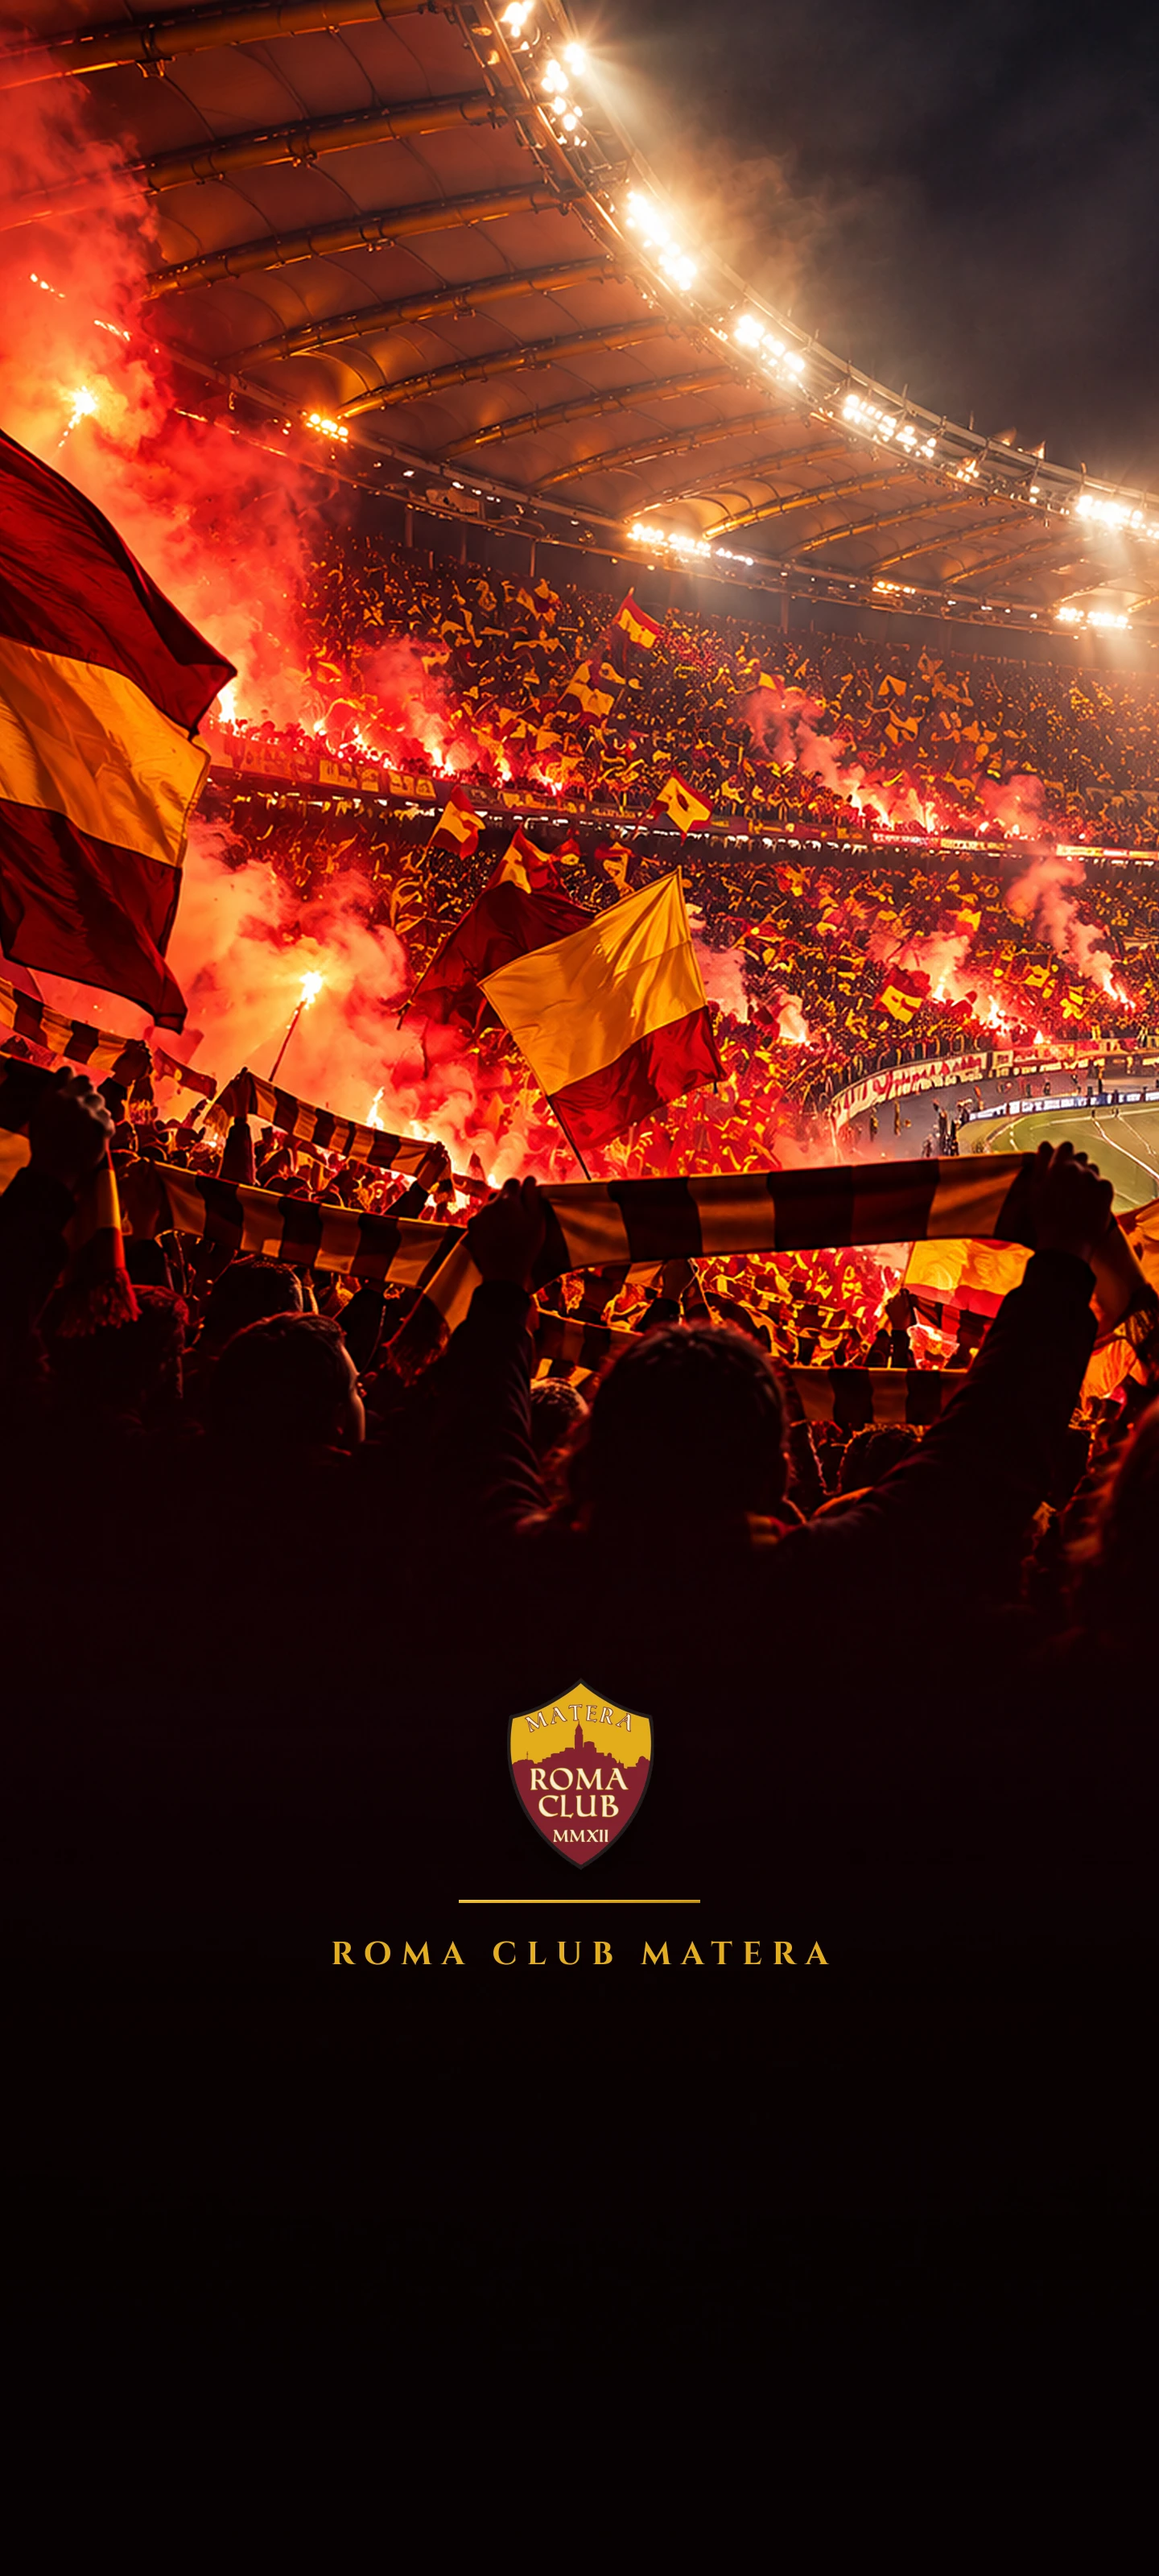
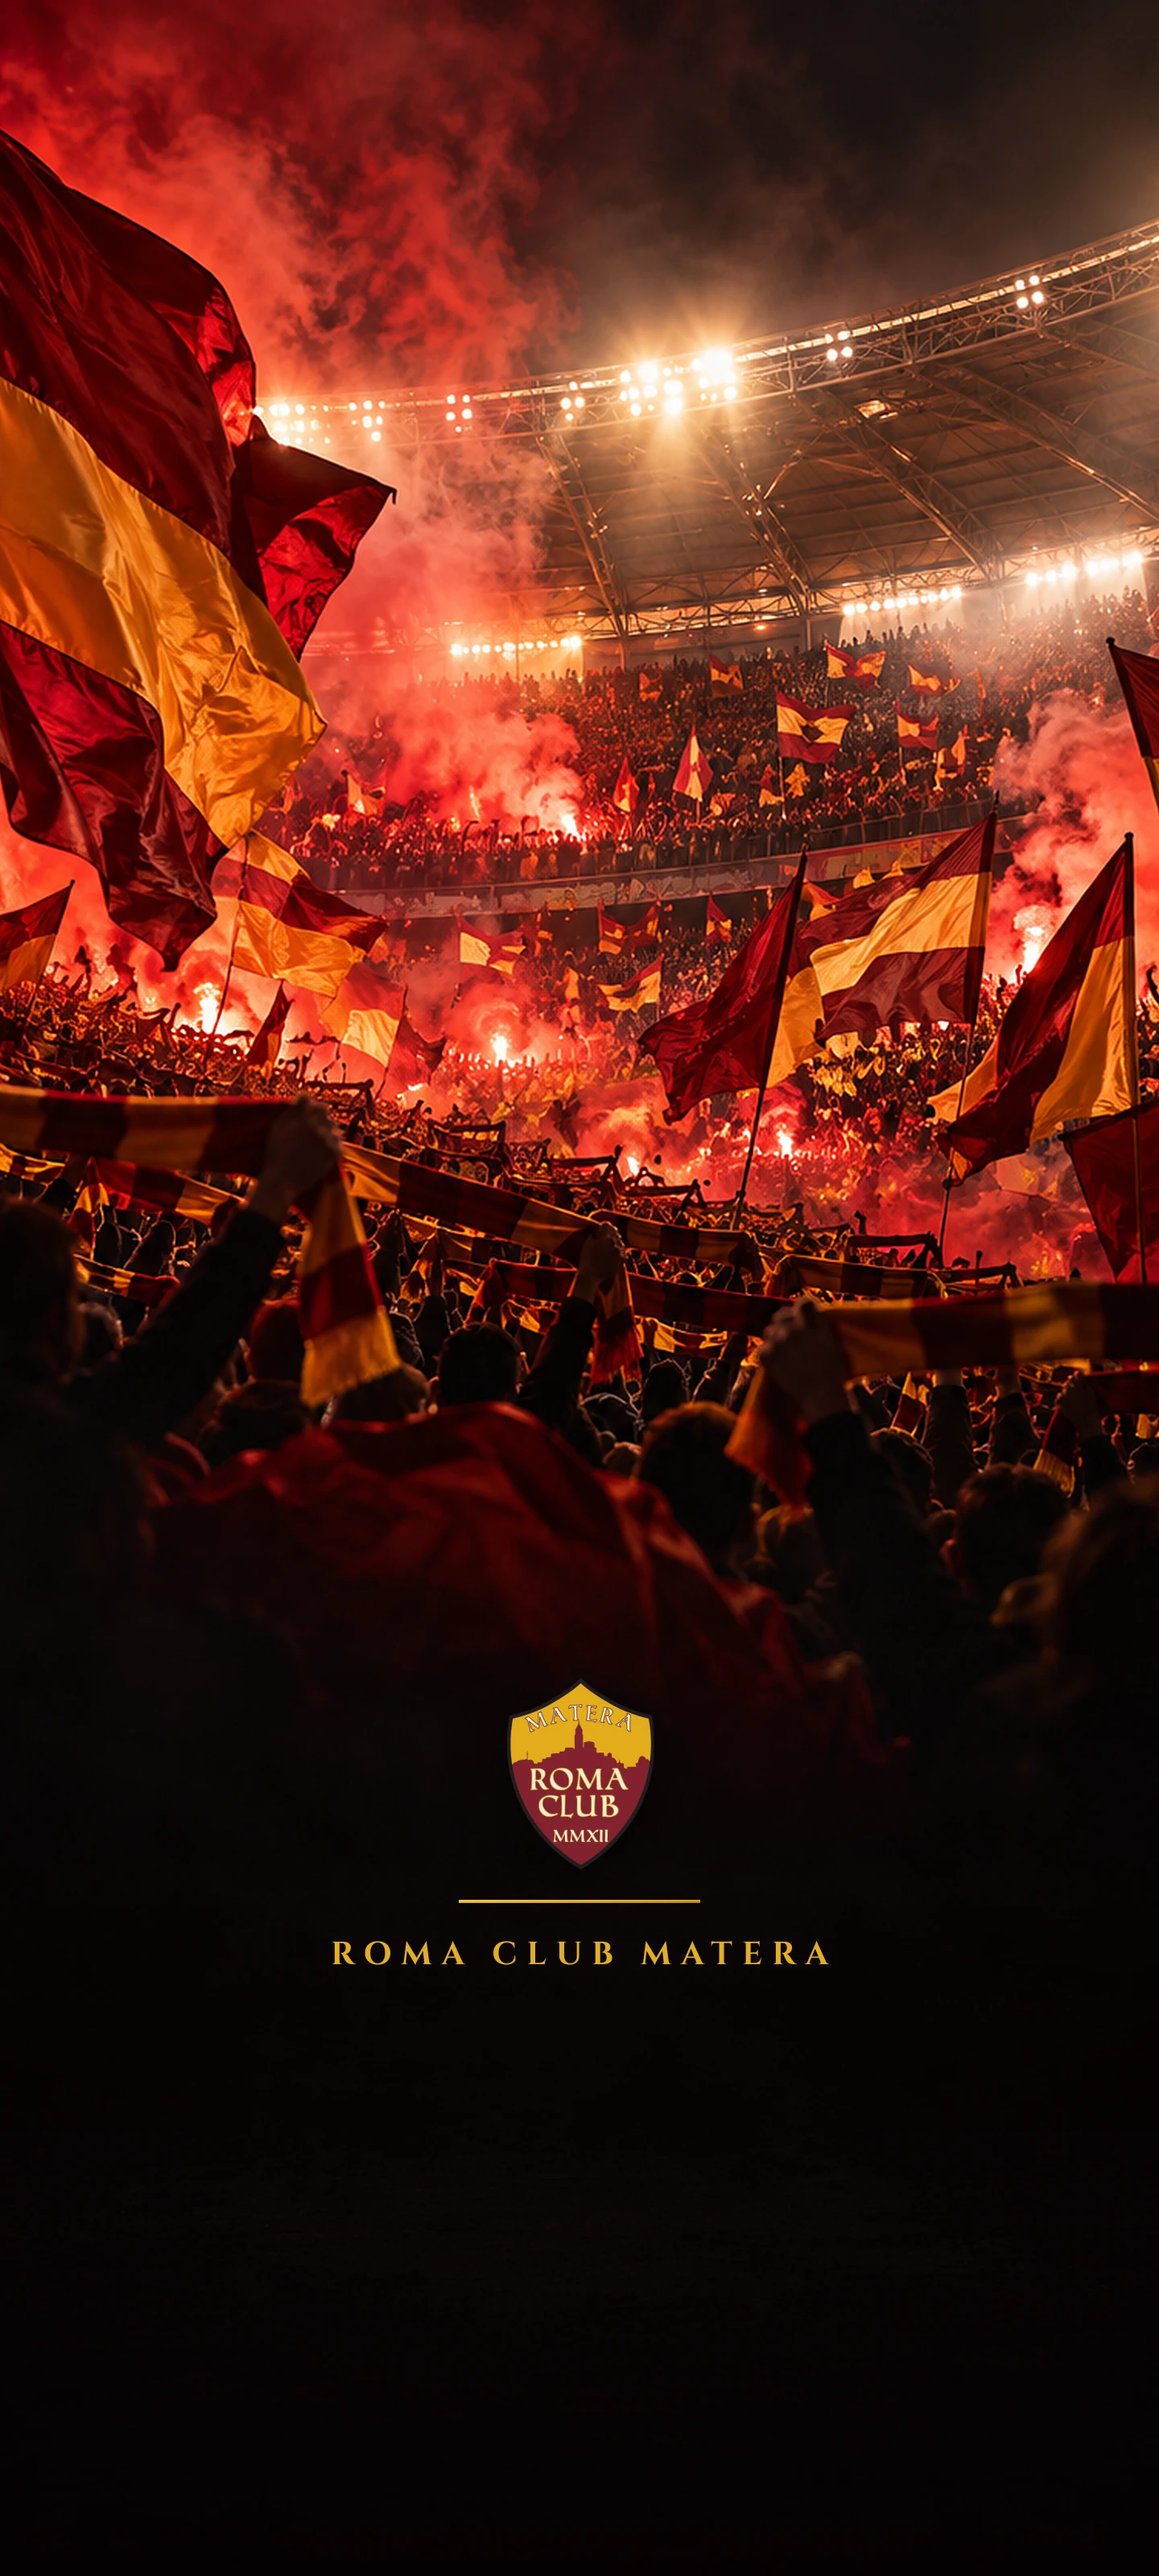
Tema RCM 1.5.3: sfondi dalle illustrazioni nuove, icone originali nella Home
- 13 illustrazioni del 09/10/2026 (cartella fatte/ dell'archivio): Capitano,
  Colosseo, Olimpico, Sassi di notte, Da Matera a Roma, la Curva, Dybala,
  Malen (due), Svilar, Mancini (due, una col derby), il tuffo. Prendono il
  posto delle versioni disegnate, che restano se l'archivio non c'e'.
- La Home RCM mostra per tutte le app l'icona originale nel bordino del
  Club; le icone disegnate restano per Theme Park e gli altri launcher.

diff --git a/app/android/app/src/main/kotlin/it/romaclubmatera/tema/HomeActivity.kt b/app/android/app/src/main/kotlin/it/romaclubmatera/tema/HomeActivity.kt
@@ -30,15 +30,14 @@ import io.flutter.plugin.common.MethodChannel
 import io.flutter.plugin.common.StandardMessageCodec
 import io.flutter.plugin.platform.PlatformView
 import io.flutter.plugin.platform.PlatformViewFactory
-import org.xmlpull.v1.XmlPullParser
 import java.io.ByteArrayOutputStream
 import kotlin.concurrent.thread
 
 /**
  * La Home del Club: un launcher vero (categoria HOME), disegnato in Flutter
  * (entrypoint "home" in lib/home.dart) sopra lo sfondo del telefono.
- * Le icone sono quelle del tema: dal pacchetto se l'app e' in appfilter.xml,
- * altrimenti l'icona originale ritagliata dentro la cornice del Club.
+ * Le icone sono quelle originali delle app, ritagliate dentro la cornice
+ * del Club.
  * I widget delle altre app vivono qui (AppWidgetHost) e Flutter li mostra
  * come viste native "rcm/widget".
  */
@@ -47,8 +46,6 @@ class HomeActivity : FlutterActivity() {
     private lateinit var canale: MethodChannel
     private val la by lazy { getSystemService(Context.LAUNCHER_APPS_SERVICE) as LauncherApps }
 
-    // componente "pacchetto/attivita'" -> nome del drawable del tema
-    private val filtro: Map<String, String> by lazy { leggiFiltro() }
 
     private val awm by lazy { AppWidgetManager.getInstance(this) }
     private val host by lazy { AppWidgetHost(applicationContext, HOST_ID) }
@@ -396,47 +393,17 @@ class HomeActivity : FlutterActivity() {
         }
     }
 
-    private fun leggiFiltro(): Map<String, String> {
-        val m = HashMap<String, String>()
-        val id = resources.getIdentifier("appfilter", "xml", packageName)
-        if (id == 0) return m
-        val x = resources.getXml(id)
-        while (x.next() != XmlPullParser.END_DOCUMENT) {
-            if (x.eventType != XmlPullParser.START_TAG) continue
-            when (x.name) {
-                "item" -> {
-                    val comp = x.getAttributeValue(null, "component") ?: continue
-                    val d = x.getAttributeValue(null, "drawable") ?: continue
-                    val k = comp.removePrefix("ComponentInfo{").removeSuffix("}")
-                    // "pacchetto/.Attivita" -> nome completo
-                    val (p, a) = k.split("/", limit = 2).let { it[0] to it.getOrElse(1) { "" } }
-                    m["$p/${if (a.startsWith(".")) p + a else a}"] = d
-                    m.putIfAbsent("$p/*", d) // stessa app con un'attivita' diversa
-                }
-            }
-        }
-        return m
-    }
-
-    private fun drawable(nome: String): Drawable? {
-        val id = resources.getIdentifier(nome, "drawable", packageName)
-        return if (id == 0) null else resources.getDrawable(id, theme)
-    }
-
     private fun icona(c: ComponentName): ByteArray {
         val lato = 192
         val bmp = Bitmap.createBitmap(lato, lato, Bitmap.Config.ARGB_8888)
         val tela = Canvas(bmp)
-        val mio = filtro["${c.packageName}/${c.className}"] ?: filtro["${c.packageName}/*"]
-        val tema = mio?.let { drawable(it) }
-        if (tema != null) {
-            tema.setBounds(0, 0, lato, lato); tema.draw(tela)
-        } else {
-            val orig = la.getActivityList(c.packageName, Process.myUserHandle())
-                .firstOrNull { it.componentName == c }?.getIcon(0)
-                ?: packageManager.getApplicationIcon(c.packageName)
-            cornice(tela, lato.toFloat(), orig)
-        }
+        // dalla 1.5.3 tutte le app con la loro icona nel bordino del Club
+        // (Michele, 10/10/2026: "le icone originali con il bordino sono piu' belle");
+        // le icone disegnate restano nel pacchetto per Theme Park e gli altri launcher
+        val orig = la.getActivityList(c.packageName, Process.myUserHandle())
+            .firstOrNull { it.componentName == c }?.getIcon(0)
+            ?: packageManager.getApplicationIcon(c.packageName)
+        cornice(tela, lato.toFloat(), orig)
         return ByteArrayOutputStream().also { bmp.compress(Bitmap.CompressFormat.PNG, 100, it) }.toByteArray()
     }
 

diff --git a/app/lib/sfondi.dart b/app/lib/sfondi.dart
@@ -14,6 +14,9 @@ String nomeSfondo(String asset) {
     'capitano': 'Il Capitano', 'totti-10': 'Totti 10', 'de-rossi-16': 'De Rossi 16', 'totti-e-de-rossi': 'Totti e De Rossi', 'mmxii': 'MMXII',
     'da-matera-a-roma': 'Da Matera a Roma', 'forza-grande-roma': 'Forza grande Roma',
     'olimpico-notte': "L'Olimpico", 'la-curva-fumogeni': 'La Curva',
+    'dybala-21': 'Dybala 21', 'malen-14': 'Malen 14', 'malen-14-curva': 'Malen 14 in curva', 'svilar-99': 'Svilar 99',
+    'mancini-23': 'Mancini 23', 'mancini-23-derby': 'Mancini 23 derby', 'portiere-tuffo': 'Il tuffo',
+    'sassi-di-notte': 'Sassi di notte',
   };
   final base = asset.split('/').last.split('.').first.replaceFirst(RegExp(r'^\d+-'), '');
   if (speciali.containsKey(base)) return speciali[base]!;

diff --git a/sfondi/genera.py b/sfondi/genera.py
@@ -213,13 +213,28 @@ def olimpico():
 # nell'archivio del Club: la cartella si passa con ORIGINALI=..., il percorso
 # non va nel repo. Nome del file -> (nome dello sfondo, scritta sotto lo stemma).
 FOTO = {
-    '01.png': [('07-olimpico-notte', 'ROMA CLUB MATERA', {})],
-    '02.png': [('14-la-curva-fumogeni', 'ROMA CLUB MATERA', {})],
     # Totti e De Rossi di spalle; la scelta di usarla cosi' com'e' e' di Michele (09/10/2026)
     '03-totti-de-rossi.png': [('08-totti-10', 'IL CAPITANO', {'centro': .30}),
                               ('09-de-rossi-16', 'CAPITAN FUTURO', {'centro': .755}),
                               ('09-totti-e-de-rossi', 'I NOSTRI CAPITANI', {'intera': True})],
+    # illustrazioni del 09/10/2026 (cartella fatte/, nomi gia' pensati per il SEO):
+    # prendono il posto delle versioni disegnate qui sotto, che restano se mancano
+    'fatte/sfondo-roma-maglia-10-capitano-spogliatoio.png': [('05-capitano', 'IL CAPITANO', {})],
+    'fatte/sfondo-roma-colosseo-tramonto.png': [('06-colosseo', 'ROMA CLUB MATERA', {'centro': .42})],
+    'fatte/sfondo-roma-stadio-olimpico-notte.png': [('07-olimpico-notte', 'ROMA CLUB MATERA', {})],
+    'fatte/sfondo-matera-sassi-notte-luna.png': [('11-sassi-di-notte', 'MATERA', {'centro': .45})],
+    'fatte/sfondo-matera-roma-sassi-colosseo-tramonto.png': [('12-da-matera-a-roma', 'DA MATERA A ROMA', {})],
+    'fatte/sfondo-roma-curva-sud-bandiere-fumogeni.png': [('14-la-curva-fumogeni', 'ROMA CLUB MATERA', {})],
+    'fatte/sfondo-roma-dybala-21-stadio-notte.png': [('21-dybala-21', 'LA JOYA', {})],
+    'fatte/sfondo-roma-malen-14-braccia-alzate-stadio.png': [('22-malen-14', 'DONYELL MALEN', {})],
+    'fatte/sfondo-roma-malen-14-curva-bandiere.png': [('22-malen-14-curva', 'DONYELL MALEN', {'centro': .45})],
+    'fatte/sfondo-roma-svilar-99-porta.png': [('23-svilar-99', 'MILE SVILAR', {})],
+    'fatte/sfondo-roma-mancini-23-bandiera-giallorossa.jpeg': [('24-mancini-23', 'GIANLUCA MANCINI', {})],
+    # la bandiera col topo sfotte la Lazio: voluta da Michele (10/10/2026)
+    'fatte/sfondo-roma-mancini-23-bandiera-derby.png': [('24-mancini-23-derby', 'GIANLUCA MANCINI', {})],
+    'fatte/sfondo-roma-portiere-tuffo-riflettori.png': [('25-portiere-tuffo', 'ROMA CLUB MATERA', {'centro': .55})],
 }
+
 
 
 def da_foto(file, testo, png, centro=.5, intera=False):

diff --git a/README.md b/README.md
@@ -19,13 +19,14 @@ del Club, e i generatori da cui escono.
   istruzioni; Samsung Theme Park guidato passo per passo).
 - **Home RCM** (`HomeActivity.kt` + `lib/home.dart`): la stessa app e' anche
   un launcher. Chi la sceglie come app Home ha le icone del Club su tutte le
-  app (cornice per quelle non in elenco), pagine a griglia 4x6, cartelle,
+  app (l'icona originale dentro la cornice), pagine a griglia 4x6, cartelle,
   widget delle altre app (AppWidgetHost, mostrati come viste native), dock e
   cassetto con ricerca; si sposta tutto tenendo premuto. Tenendo premuta
   un'app compaiono le sue scorciatoie; i pallini delle notifiche arrivano
   da `Notifiche.kt` se l'utente concede l'accesso alle notifiche (solo quali
-  app, mai il contenuto). Le app senza icona del Club hanno la loro icona
-  ritagliata nella cornice, come `personale/cornice.py`. Pubblica dalla 1.5.0; si spegne
+  app, mai il contenuto). Dalla 1.5.3 tutte le app hanno la loro icona
+  originale ritagliata nella cornice, come `personale/cornice.py`; le icone
+  disegnate restano per Theme Park e gli altri launcher. Pubblica dalla 1.5.0; si spegne
   costruendo con `--dart-define=HOME_RCM=false -PhomeRcm=false`.
 
 - `portfolio/genera.py` — il portfolio per la candidatura a designer di
